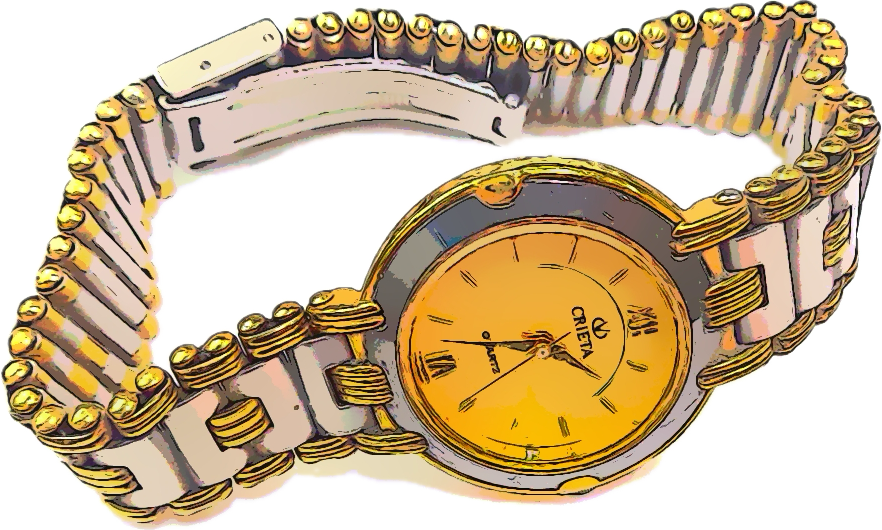
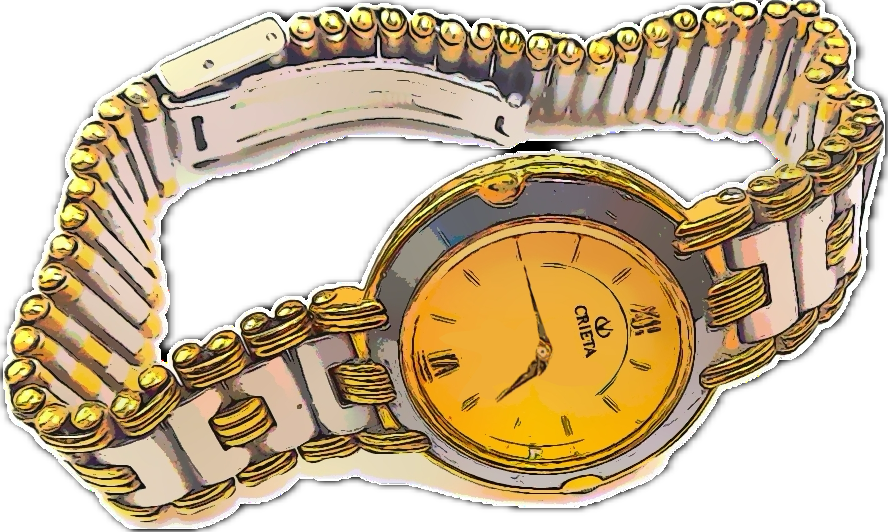
240705수정사항

diff --git a/HTML/Ending.html b/HTML/Ending.html
@@ -1,0 +1,91 @@
+<!DOCTYPE html>
+<html lang="en">
+<head>
+    <meta charset="UTF-8">
+    <meta name="viewport" content="width=device-width, initial-scale=1.0">
+    <title>엔딩 장면</title>
+    <link rel="stylesheet" href="../css/01_the_hostel.css">
+    <link rel="icon" href="path/to/favicon.ico" type="image/x-icon">
+    <style>
+        body {
+            background-color: black;
+            color: white;
+            display: flex;
+            justify-content: center;
+            align-items: center;
+            height: 100vh;
+            margin: 0;
+            overflow: hidden; /* 화면 밖으로 텍스트가 넘어가지 않도록 설정 */
+        }
+        .scroll-container {
+            height: 100%; /* 전체 화면 높이 설정 */
+            overflow: hidden; /* 화면 밖으로 텍스트가 넘어가지 않도록 설정 */
+            position: relative; /* 상대 위치 설정 */
+            width: 100%;
+        }
+        .scroll-text {
+            position: absolute; /* 절대 위치 설정 */
+            bottom: -100%; /* 화면 아래쪽에서 시작 */
+            animation: scroll-up 20s linear infinite; /* 20초 동안 linear 애니메이션 실행 */
+            width: 100%;
+            display: flex;
+            justify-content: center;
+            align-items: center;
+        }
+        @keyframes scroll-up {
+            0% {
+                bottom: -100%; /* 화면 아래쪽에서 시작 */
+            }
+            100% {
+                bottom: 100%; /* 화면 위쪽으로 끝 */
+            }
+        }
+        .ending-container {
+            text-align: center;
+            max-width: 800px;
+            margin: auto;
+        }
+        .ending-container h1 {
+            font-size: 2.5rem;
+            margin-bottom: 20px;
+        }
+        .ending-container p {
+            font-size: 1.2rem;
+            margin-bottom: 20px;
+        }
+        .ending-container button {
+            padding: 10px 20px;
+            font-size: 1rem;
+            cursor: pointer;
+            background-color: #007BFF;
+            border: none;
+            color: white;
+            border-radius: 5px;
+            transition: background-color 0.3s;
+            position:fixed;
+            right: 10px;
+            bottom:30px;
+        }
+        .ending-container button:hover {
+            background-color: #0056b3;
+        }
+
+
+    </style>
+</head>
+<body>
+    <div class="scroll-container">
+        <div class="scroll-text">
+            <div class="ending-container">
+                <h1>호스텔의 숨겨진 진실</h1>
+                <p>모티브는 바에 들어서자마자 바텐더에게로 다가갔다. 바텐더는 록시가 자주 주문하던 칵테일에 대해 설명하며, 그녀가 자주 앉던 자리와 그녀의 일상적인 행동에 대해 이야기해 주었다. 모티브는 바텐더의 설명을 듣고 칵테일을 만들어 록시의 남자친구에게 건넸다. 남자친구는 모티브에게 록시의 사진을 건네며, 그녀를 마지막으로 본 날을 떠올렸다.</p>
+                <p>사진 속 록시의 미소는 비밀스러운 메시지를 품고 있는 듯했다. 이 사진은 모티브를 다음 단계로 이끌었다. 모티브는 사진 속 단서를 따라 서랍장을 열기 위해 복잡한 퍼즐을 풀어나갔다. 러시아워 보드게임을 해결한 후, 모티브는 서랍에서 두 번째 칵테일 레시피를 발견했다. 이 레시피는 록시가 즐겨 마시던 또 다른 칵테일의 비밀을 담고 있었다.</p>
+                <p>퍼즐을 풀며 서랍장을 열어가는 과정에서 모티브는 점점 록시의 흔적을 추적해 나갔다. 피아노 악보에 적힌 다잉 메시지, 신문에 실린 월들 퍼즐, 라틴어와 그림이 연결된 비디오 클립, 무게를 맞추는 바구니 퍼즐 등 다양한 트릭과 퍼즐을 해결하면서, 그녀는 실종된 록시의 마지막 순간을 조금씩 이해하게 되었다.</p>
+                <p>마침내 모티브는 봉투 안에서 작은 동전을 발견했다. 동전을 괴종시계 옆 상자에 올려놓자, 숨겨진 편지가 나타났다. 편지에는 록시의 고통과 슬픔, 그리고 그녀가 자살을 선택하게 된 이유가 담겨 있었다. 편지와 함께 발견된 록시와 남자친구의 사진은 그들이 사랑했지만, 결국 이별할 수밖에 없었던 이야기를 말해주었다.</p>
+                <p>모티브는 사건의 진실을 밝혀내며, 록시의 슬픔과 고통을 이해하게 되었다. 그녀는 록시의 이야기를 통해 사랑과 상실, 그리고 인간의 연약함을 다시금 되새기게 되었다. 이 사건은 모티브에게 또 다른 교훈을 남기며, 그녀의 기억 속에 깊이 새겨졌다.</p>
+                <button onclick="location.href='01_the_hostel.html'">다시 시작하기</button>
+            </div>
+        </div>
+    </div>
+</body>
+</html>

diff --git a/js/05_left_wall.js b/js/05_left_wall.js
@@ -13,10 +13,13 @@ window.onload = function() {
     const coinClick = localStorage.getItem("coinClick") === 'true';
 
     if(coinClick) {
-        imageElement.src = '../image/images/leftwall/동전올려진상자_배경.PNG';
+        const leftWallImage = document.getElementById('left-wall-image');
+        leftWallImage.src = '../image/images/leftwall/동전올려진상자_배경.PNG';
         setTimeout(() => {
-            imageElement.src = '../image/images/leftwall/최종열린상자_배경.PNG';
-            
+            leftWallImage.src = '../image/images/leftwall/최종열린상자_배경.PNG';
+            setTimeout(() => {
+                window.location.href = '../HTML/Ending.html';
+            }, 2000);
         }, 2000);
     }
 }
@@ -27,10 +30,10 @@ function addClickableAreas() {
         { id: 'menu', x: 203, y: 142, width: 120, height: 160, image: '../image/images/leftwall/메뉴판_수정.PNG' },
         { id: 'pianokey', x: 399, y: 206, width: 210, height: 160, image: '../image/images/leftwall/피아노건반.PNG' },
         { id: 'mirror', x: 712, y: 78, width: 160, height: 190, image: '../image/images/leftwall/거울_수정.PNG' },
-        { id: 'flowerpot', x: 703, y: 360, width: 130, height: 379, image: '../image/images/leftwall/꽃화분.PNG' },
+        // { id: 'flowerpot', x: 703, y: 360, width: 130, height: 379, image: '../image/images/leftwall/꽃화분.PNG' },
         { id: 'television', x: 75, y: 342, width: 170, height: 160, image: '../image/images/leftwall/티비_1.PNG' },
         { id: 'green_drawer', x: 67, y: 537, width: 370, height: 220, image: '../image/images/leftwall/왼쪽벽열린선반_수정.PNG' },
-        { id: 'chest', x: 298, y: 417, width: 100, height: 100, image: '../image/images/leftwall/열린상자_빈.PNG' },
+        // { id: 'chest', x: 298, y: 417, width: 100, height: 100, image: '../image/images/leftwall/열린상자_빈.PNG' },
         { id: 'grandfather_clock', x: 1010, y: 141, width: 126, height: 419, href: '../game/clock/clock.html' },
         { id: 'grandfather_drawer', x: 971, y: 633, width: 212, height: 95, image: drawerUnlocked ? '../image/images/leftwall/서랍속반지.PNG' : '' }
     ];

diff --git a/game/clock/clock.js b/game/clock/clock.js
@@ -83,7 +83,7 @@ minPlusBtn.addEventListener("click", function(e) {
   //---------------//
 // clock.html에서 시간 설정 후 정답을 맞춘 경우
 clearBtn.addEventListener('click', (e) => {
-  if (hourVal === 10 && minuteVal === 25) {
+  if (hourVal === 7 && minuteVal === 15) {
     alert('닫혔던 서랍이 열렸다.');
     localStorage.setItem('drawerUnlocked', 'true');
     localStorage.setItem('clockSolved', 'true');
@@ -91,7 +91,7 @@ clearBtn.addEventListener('click', (e) => {
       window.location.href = '../../HTML/05_left_wall.html'; // left_wall.html로 이동
     }, 500);
   } else {
-    alert('이게 아닌 것 같다..');
+    alert('시간이 맞지 않습니다. 다시 시도하세요.');
   }
 });
 

diff --git a/HTML/inventory.html b/HTML/inventory.html
@@ -15,6 +15,10 @@
             font-style: normal;
         }
          /* 기본적인 레이아웃과 스타일 설정 */
+         /* * {
+            cursor: url('../image/마우스커서.png') 1 1,
+                     auto; /* 커서를 이미지로 변경 */
+         } */
         body {
             background-color: black;
             display: flex;
@@ -23,6 +27,7 @@
             align-items: center;
             height: 100vh;
             margin: 0;
+            
         }
         .inventory {
             position: relative;

diff --git a/HTML/04_stage.html b/HTML/04_stage.html
@@ -3,7 +3,7 @@
 <head>
     <meta charset="UTF-8">
     <meta name="viewport" content="width=device-width, initial-scale=1.0">
-    <title>Stage</title>
+    <title>Drag Events Example</title>
     <link rel="stylesheet" href="../css/01_the_hostel.css">
     <link rel="icon" href="../image/favicon.ico" type="image/x-icon">
     <style>

diff --git a/game/wordle/wordle.js b/game/wordle/wordle.js
@@ -1,4 +1,4 @@
-const WORDS = "happy"; // 정답 단어 설정
+const WORDS = "crush"; // 정답 단어 설정
 const NUMBER_OF_GUESSES = 6; // 최대 시도 횟수
 let guessesRemaining = NUMBER_OF_GUESSES; // 남은 시도 횟수
 let currentGuess = []; // 현재 시도 중인 단어
